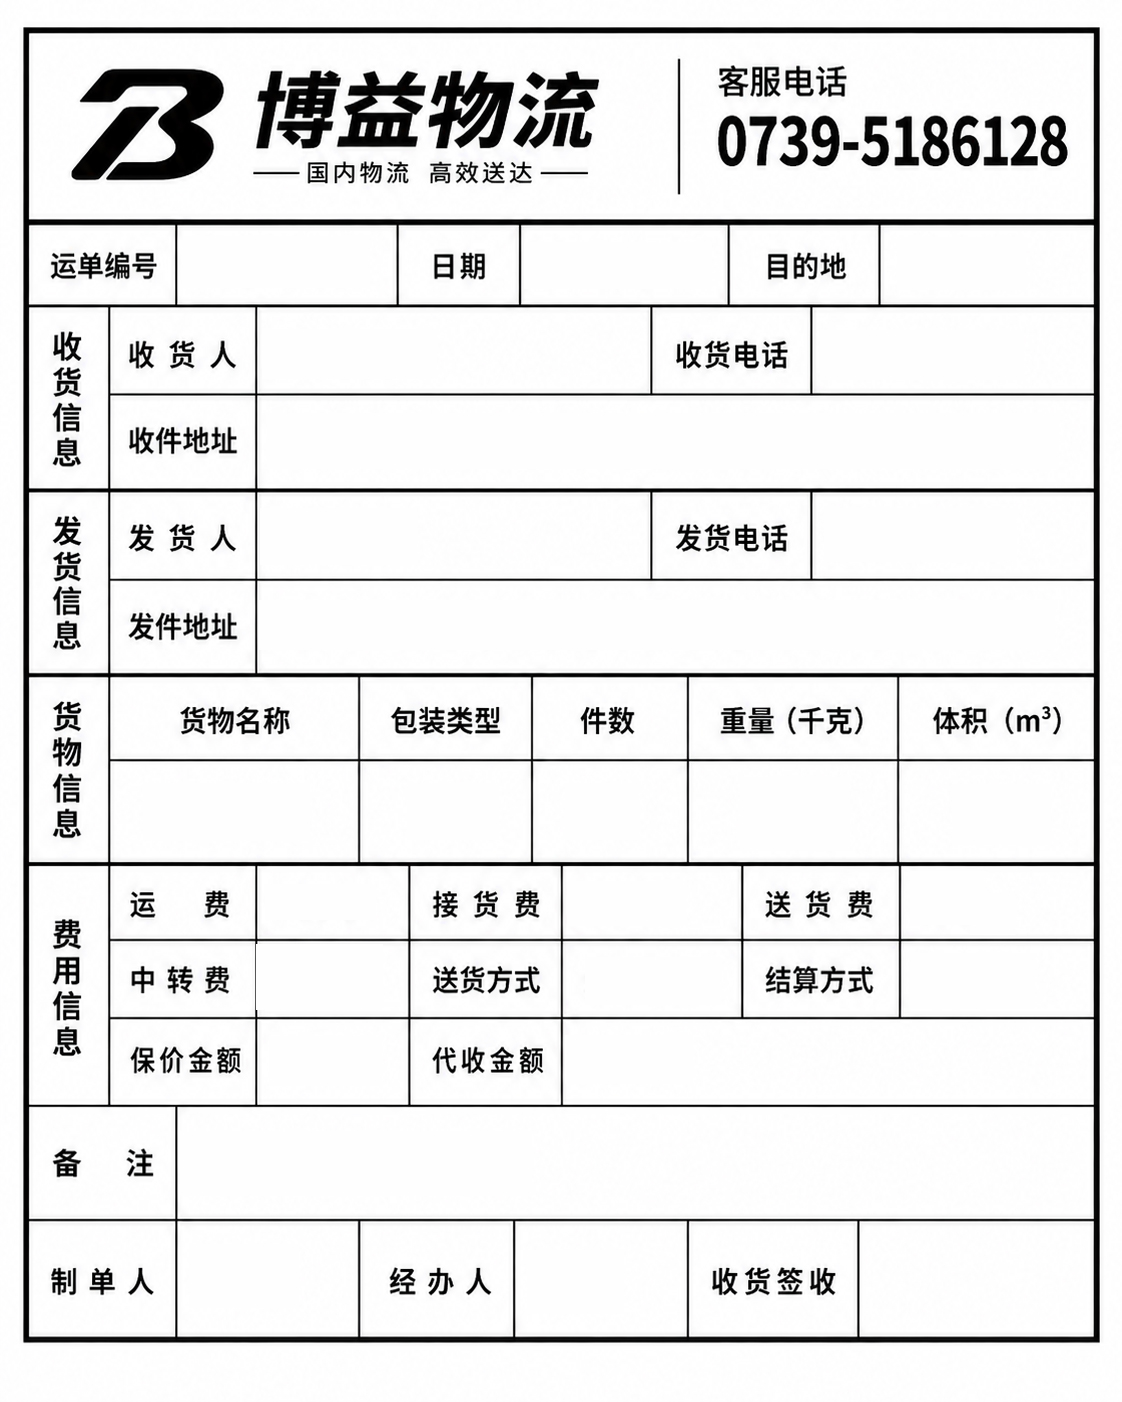
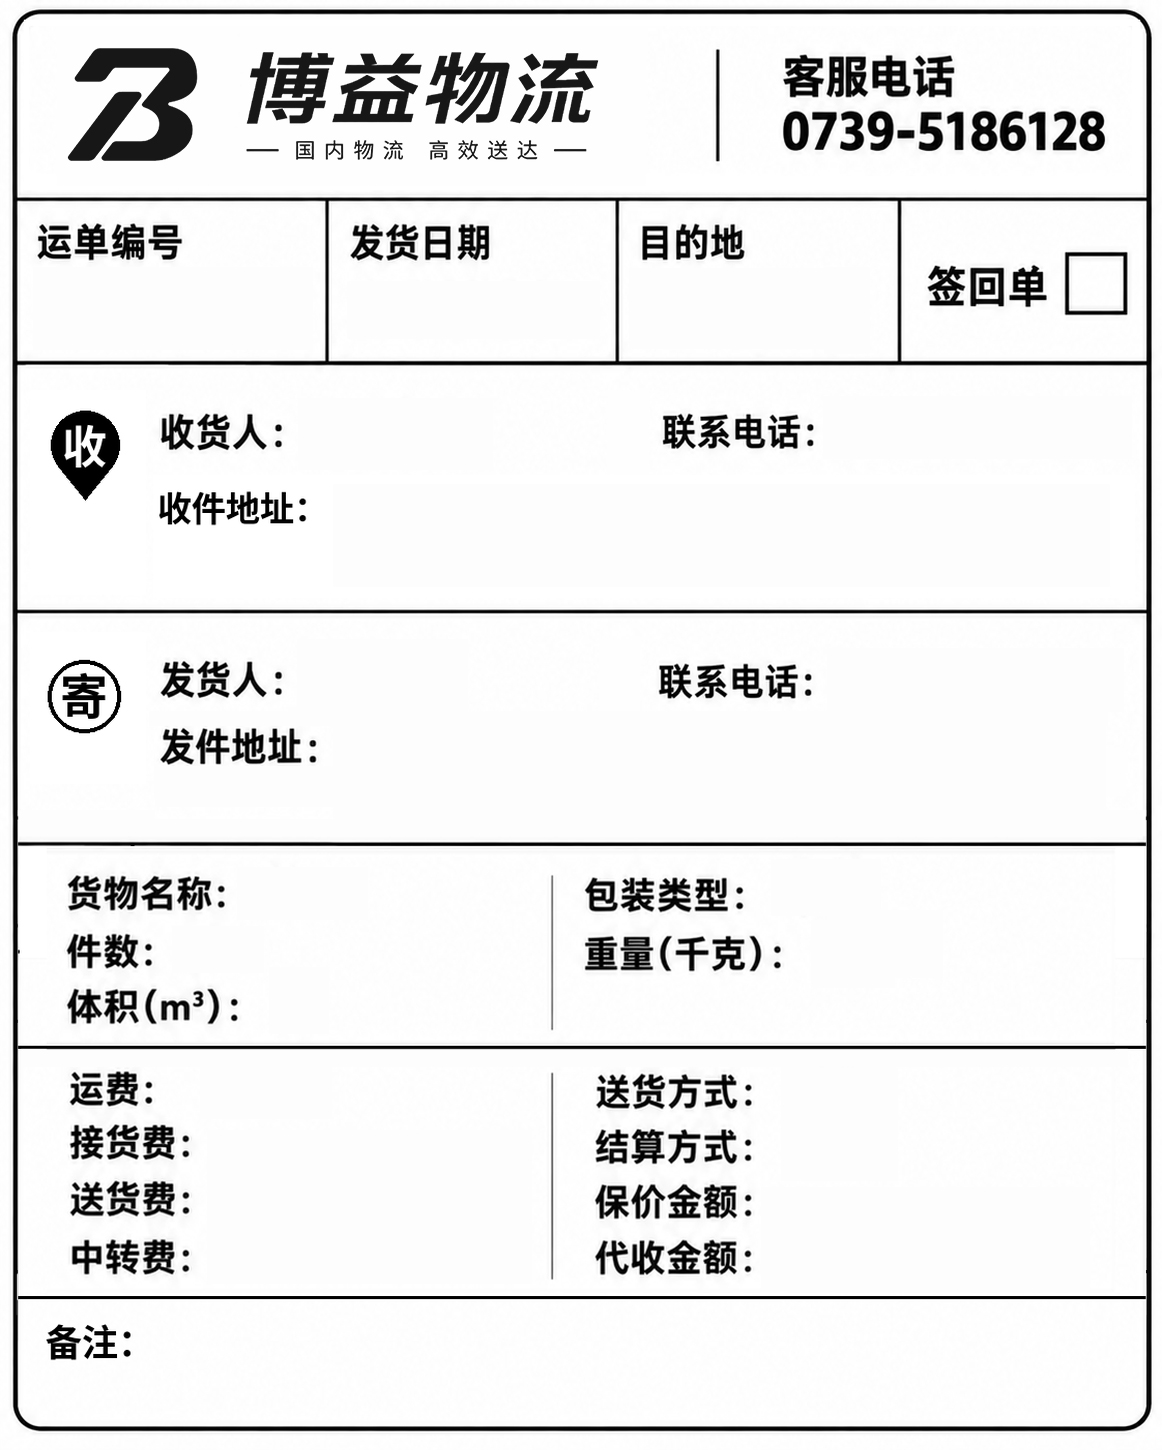
feat(console): replace waybill master and match sample typography

Changed region(s): [[0.0, 0.0, 0.9982, 1.0], [0.3431, 0.7668, 0.3743, 0.7974], [0.2184, 0.7668, 0.2496, 0.7974]]

diff --git a/console/static/js/waybill_label_html.js b/console/static/js/waybill_label_html.js
@@ -4,10 +4,10 @@
   const WIDTH_MM = "74mm";
   const HEIGHT_MM = "92mm";
   const PAGE_NAME = "74mm×92mm 博益物流主单";
-  const BACKGROUND_URL = "/static/assets/waybill_label_background.jpg";
-  // Coordinates refer to the supplied, unmodified 1122 × 1402 blank master.
-  const SOURCE_WIDTH = 1122;
-  const SOURCE_HEIGHT = 1402;
+  const BACKGROUND_URL = "/static/assets/waybill_label_background.jpg?v=20260916-master-v2";
+  // Coordinates and type sizes follow the supplied 1162 × 1450 master/sample.
+  const SOURCE_WIDTH = 1162;
+  const SOURCE_HEIGHT = 1450;
   const CONTENT_FONT = "黑体";
   const CONTENT_WEIGHT = 700;
   const CONTENT_SIZE_PX = 44;
@@ -79,8 +79,6 @@
       transportMethod: field("transportMethod", "delivery_method"),
       paymentMethod: field("paymentMethod", "payment_method"),
       remark: field("remark", "remark"),
-      makerName: field("makerName", "maker_name"),
-      handlerName: field("handlerName", "handler_name"),
     };
   };
 
@@ -99,33 +97,31 @@
   const placedMm = (value, offset, settings) => `${stripZeros(offset + value * settings.templateScale)}mm`;
   const sizedMm = (value, settings) => `${stripZeros(value * settings.templateScale)}mm`;
 
-  // Padded cell rectangles in source pixels, shared by HTML and native printing.
+  // Padded content regions in source pixels, shared by HTML and native printing.
   const FIELD_LAYOUT = [
-    { field: "waybillNo", x: 190, y: 229, w: 194, h: 69 },
-    { field: "date", x: 531, y: 229, w: 187, h: 69 },
-    { field: "station", x: 891, y: 229, w: 191, h: 69 },
-    { field: "recipientName", x: 271, y: 314, w: 365, h: 73 },
-    { field: "recipientPhone", x: 825, y: 314, w: 257, h: 73 },
-    { field: "recipientAddress", align: "left", x: 271, y: 401, w: 810, h: 80, lines: 2 },
-    { field: "senderName", x: 271, y: 499, w: 365, h: 72 },
-    { field: "senderPhone", x: 825, y: 499, w: 257, h: 72 },
-    { field: "senderAddress", align: "left", x: 271, y: 588, w: 810, h: 78, lines: 2 },
-    { field: "cargoName", x: 122, y: 769, w: 224, h: 85, align: "center", lines: 2 },
-    { field: "packageType", x: 372, y: 769, w: 146, h: 85, align: "center" },
-    { field: "pieces", x: 544, y: 769, w: 131, h: 85, align: "center" },
-    { field: "weight", x: 700, y: 769, w: 186, h: 85, align: "center" },
-    { field: "volume", x: 911, y: 769, w: 170, h: 85, align: "center" },
-    { field: "freight", x: 270, y: 872, w: 126, h: 60 },
-    { field: "pickupFee", x: 575, y: 872, w: 154, h: 60 },
-    { field: "deliveryFee", x: 913, y: 872, w: 168, h: 60 },
-    { field: "transferFee", x: 270, y: 948, w: 126, h: 62 },
-    { field: "transportMethod", x: 575, y: 948, w: 154, h: 62 },
-    { field: "paymentMethod", x: 913, y: 948, w: 168, h: 62 },
-    { field: "insuranceAmount", x: 270, y: 1026, w: 126, h: 71 },
-    { field: "codAmount", x: 575, y: 1026, w: 506, h: 71 },
-    { field: "remark", align: "left", x: 191, y: 1116, w: 890, h: 94, lines: 2 },
-    { field: "makerName", x: 191, y: 1229, w: 154, h: 98 },
-    { field: "handlerName", x: 529, y: 1229, w: 144, h: 98 },
+    { field: "waybillNo", x: 33, y: 264, w: 280, h: 85, fontPx: 64 },
+    { field: "date", x: 348, y: 270, w: 255, h: 73, fontPx: 56 },
+    { field: "station", x: 640, y: 264, w: 242, h: 87, fontPx: 62 },
+    { field: "recipientName", x: 305, y: 396, w: 330, h: 72, fontPx: 54 },
+    { field: "recipientPhone", x: 834, y: 396, w: 303, h: 72, fontPx: 52 },
+    { field: "recipientAddress", x: 342, y: 482, w: 782, h: 110, fontPx: 36, lines: 2, leading: 1.38, valign: "top" },
+    { field: "senderName", x: 305, y: 644, w: 330, h: 72, fontPx: 54 },
+    { field: "senderPhone", x: 834, y: 644, w: 303, h: 72, fontPx: 52 },
+    { field: "senderAddress", x: 342, y: 724, w: 782, h: 102, fontPx: 36, lines: 2, leading: 1.38, valign: "top" },
+    { field: "cargoName", x: 260, y: 864, w: 277, h: 53 },
+    { field: "packageType", x: 782, y: 864, w: 343, h: 53 },
+    { field: "pieces", x: 188, y: 923, w: 349, h: 52, fontPx: 46 },
+    { field: "weight", x: 820, y: 923, w: 305, h: 52, fontPx: 46 },
+    { field: "volume", x: 271, y: 980, w: 266, h: 52, fontPx: 46 },
+    { field: "freight", x: 206, y: 1064, w: 331, h: 52, fontPx: 42 },
+    { field: "pickupFee", x: 206, y: 1119, w: 331, h: 52, fontPx: 42 },
+    { field: "deliveryFee", x: 206, y: 1175, w: 331, h: 52, fontPx: 42 },
+    { field: "transferFee", x: 206, y: 1230, w: 331, h: 52, fontPx: 42 },
+    { field: "transportMethod", x: 789, y: 1064, w: 336, h: 52 },
+    { field: "paymentMethod", x: 789, y: 1120, w: 336, h: 52 },
+    { field: "insuranceAmount", x: 789, y: 1175, w: 336, h: 52, fontPx: 42 },
+    { field: "codAmount", x: 789, y: 1230, w: 336, h: 52, fontPx: 42 },
+    { field: "remark", x: 158, y: 1320, w: 967, h: 96, fontPx: 36, lines: 2, valign: "top" },
   ];
 
   const FIELD_LABELS = {
@@ -135,7 +131,7 @@
     cargoName: "货物名称", packageType: "包装类型", pieces: "件数", weight: "重量", volume: "体积",
     freight: "运费", pickupFee: "接货费", deliveryFee: "送货费", transferFee: "中转费",
     transportMethod: "送货方式", paymentMethod: "结算方式", insuranceAmount: "保价金额", codAmount: "代收金额",
-    remark: "备注", makerName: "制单人", handlerName: "经办人",
+    remark: "备注",
   };
   const wrapText = (text, width, context) => {
     const lines = [];
@@ -160,15 +156,15 @@
       const value = cleanText(data[item.field]);
       if (!value) return [];
       const font = CONTENT_FONT;
-      for (let px = CONTENT_SIZE_PX * settings.fontScale; px >= 22; px -= 0.5) {
+      for (let px = (item.fontPx || CONTENT_SIZE_PX) * settings.fontScale; px >= 22; px -= 0.5) {
         context.font = `${CONTENT_WEIGHT} ${px}px "${font}"`;
         const lines = wrapText(value, item.w * 0.95, context);
-        const lineHeight = px * 1.18;
+        const lineHeight = px * (item.leading || 1.18);
         if (lines.length > (item.lines || 1) || lines.length * lineHeight > item.h) continue;
         return [{
-          field: item.field, content: lines.join("\n"), font, fontWeight: CONTENT_WEIGHT, align: item.align || "center",
+          field: item.field, content: lines.join("\n"), font, fontWeight: CONTENT_WEIGHT, align: "left",
           x: item.x * 74 / SOURCE_WIDTH,
-          y: (item.y + (item.h - lines.length * lineHeight) / 2) * 92 / SOURCE_HEIGHT,
+          y: (item.y + (item.valign === "top" ? 0 : (item.h - lines.length * lineHeight) / 2)) * 92 / SOURCE_HEIGHT,
           w: item.w * 74 / SOURCE_WIDTH,
           h: (lines.length * lineHeight + 4) * 92 / SOURCE_HEIGHT,
           fontPt: px * 92 / SOURCE_HEIGHT * 72 / 25.4,

diff --git a/console/templates/document.html b/console/templates/document.html
@@ -19,8 +19,8 @@
 {% if manual_amap_sdk_should_load | default(false) %}
 <script src="https://webapi.amap.com/loader.js"></script>
 {% endif %}
-<script src="/static/js/waybill_label_html.js?v=20260916-readable"></script>
-<script src="/static/js/waybill_label_lodop.js?v=20260916-readable"></script>
+<script src="/static/js/waybill_label_html.js?v=20260916-master-v2"></script>
+<script src="/static/js/waybill_label_lodop.js?v=20260916-master-v2"></script>
 <script src="/static/js/clodop_loader.js?v=20260812"></script>
 <script src="/static/js/yunda_entry_mode.js"></script>
 {% endif %}

diff --git a/console/templates/waybill_print.html b/console/templates/waybill_print.html
@@ -37,8 +37,8 @@
 
   <div class="print-frame" data-waybill-label-preview></div>
 
-  <script src="/static/js/waybill_label_html.js?v=20260916-readable"></script>
-  <script src="/static/js/waybill_label_lodop.js?v=20260916-readable"></script>
+  <script src="/static/js/waybill_label_html.js?v=20260916-master-v2"></script>
+  <script src="/static/js/waybill_label_lodop.js?v=20260916-master-v2"></script>
   <script src="/static/js/clodop_loader.js?v=20260812"></script>
   <script>
     const PRINT_SETTINGS_KEY = "shipnow.manual.printerSettings";

diff --git a/console/AGENTS.md b/console/AGENTS.md
@@ -217,7 +217,7 @@ Console 保留 `ThreadingHTTPServer`；`app.py` 只保留服务组合、HTTP 生
 - 统一回单管理页 `/receipts` 读取本地记录与附件；查询和审核在当前页面展示直接结果，失败/未知状态不能称作成功。活动原页 iframe 仍禁用，旧回单原页前缀统一 410；本地照片与证据展示保留。
 - 博益手工单号由 `waybill_sequences` 的独立 `boyi_manual_waybill` 序列从 `BY00001` 全局递增；保存与领号同事务，预览不占号，旧数字单号保留。结算方式只接受寄付、到付、月结，页面与服务端共用 `MANUAL_PAYMENT_METHODS`。博益开单、OCR 日期统一按 ISO 入库；迁移 `050_normalize_local_waybill_dates.sql` 修正历史手工/OCR 斜杠日期，确保寄件查询可按日期找到。
 - 手工工作台右侧为高德地图定位区，收件地址失焦或回车后自动搜索定位；地图卡片下方只保留一个起始地址搜索输入框，不显示定位状态、匹配地址或起始地基础行程预估；手工录单表单分开发货信息和收货信息，不再显示外层“客户信息”标题；顶部“地址解析”弹窗只在浏览器本地解析姓名/电话/地址并填入收货人、收货电话、收件地址，不调用外部接口、不自动保存；打印机设置收纳到顶部按钮弹层，本地打印机选项通过浏览器 `localStorage` 保存偏好，保存后的打印页直接调用本机 C-Lodop 服务，不做浏览器打印兜底。手工录单页和独立打印页统一使用 `static/js/clodop_loader.js`：优先按 C-Lodop 6.644 官方方案从本机 `8000/18000` 端口通过 WebSocket 加载主脚本，仅在 WebSocket 不可用时按页面协议尝试 HTTP/HTTPS 脚本地址；禁止在两个模板中复制加载器或恢复为只依赖 `8443` SSL 证书的旧实现。
-- 热敏主单使用用户桌面“主单模板/主单-空白信息版.jpg”的原始空白底版，保存为 `static/assets/waybill_label_background.jpg`，原图 1122 × 1402 px，打印纸张仍为 74mm × 92mm。`static/js/waybill_label_html.js` 单点维护源图坐标、数据归一化和文字排版，`static/js/waybill_label_lodop.js` 必须复用，先 `ADD_PRINT_IMAGE` 再 `ADD_PRINT_TEXT`，不回退旧模板。所有动态内容（含中文、数字、日期、电话和金额）统一使用本机黑体并加粗，默认从源图 44px 字号开始排版；长内容按实际单元格宽高缩小或换行，完整保留日期、电话和金额，浏览器加载本机黑体（SimHei）后按 700 字重测量，C-Lodop 使用已安装的“黑体”并启用加粗；本机缺少黑体时明确提示安装，不回退思源黑体；短内容在单元格内水平、垂直居中，地址和备注左对齐、垂直居中，同一行按共同中线定位。固定底图文字不变。重量/体积按手工录单已保存的 kg / m³ 格式分栏；接货费、中转费和备注传入实际值，空值不补零，无法解析或文字超出可打印区域时显式报错。发件地址、制单人、经办人无来源时留空，收货签收栏保留手写；不把样张人物或金额写入模板。旧 PNG、SVG 模板及兜底实现已移除；禁止重绘底图、拆 SVG 切片、`ADD_PRINT_HTM` 或浏览器打印兜底。
+- 热敏主单使用用户桌面“主单模板/主单-空白信息版.jpg”的新版原始底图，保存为 `static/assets/waybill_label_background.jpg`，原图 1162 × 1450 px，纸张仍为 74mm × 92mm；以同目录“主单.jpg”为字号、粗细和位置参考。`static/js/waybill_label_html.js` 单点维护分区坐标、各字段字号、数据归一化和排版，`static/js/waybill_label_lodop.js` 复用后先 `ADD_PRINT_IMAGE` 再 `ADD_PRINT_TEXT`。动态内容使用本机黑体并加粗：单号、目的地和姓名突出，电话、地址、货物和费用分别按样张大小排版；各字段接在固定标签后左对齐，同排文字保持对齐，地址和备注从顶部换行。浏览器加载本机黑体（SimHei）后按 700 字重测量，C-Lodop 使用“黑体”并启用加粗；缺字体明确报错，长内容按区域缩小或换行，超出区域明确报错，不截断。底图的签回单框保留空白，当前无对应数据源；新版不再包含制单人、经办人或签收栏，旧坐标和字段已移除。重量/体积按保存的 kg / m³ 分栏；费用和备注使用实际值，空值不补零，发件地址无来源时留空，不使用样张人物或金额。图片与脚本版本参数同步更新；禁止重绘底图、旧模板兜底、`ADD_PRINT_HTM` 或浏览器打印兜底。
 
 ## 后台账号与域名登录
 

diff --git a/console/CLAUDE.md b/console/CLAUDE.md
@@ -217,7 +217,7 @@ Console 保留 `ThreadingHTTPServer`；`app.py` 只保留服务组合、HTTP 生
 - 统一回单管理页 `/receipts` 读取本地记录与附件；查询和审核在当前页面展示直接结果，失败/未知状态不能称作成功。活动原页 iframe 仍禁用，旧回单原页前缀统一 410；本地照片与证据展示保留。
 - 博益手工单号由 `waybill_sequences` 的独立 `boyi_manual_waybill` 序列从 `BY00001` 全局递增；保存与领号同事务，预览不占号，旧数字单号保留。结算方式只接受寄付、到付、月结，页面与服务端共用 `MANUAL_PAYMENT_METHODS`。博益开单、OCR 日期统一按 ISO 入库；迁移 `050_normalize_local_waybill_dates.sql` 修正历史手工/OCR 斜杠日期，确保寄件查询可按日期找到。
 - 手工工作台右侧为高德地图定位区，收件地址失焦或回车后自动搜索定位；地图卡片下方只保留一个起始地址搜索输入框，不显示定位状态、匹配地址或起始地基础行程预估；手工录单表单分开发货信息和收货信息，不再显示外层“客户信息”标题；顶部“地址解析”弹窗只在浏览器本地解析姓名/电话/地址并填入收货人、收货电话、收件地址，不调用外部接口、不自动保存；打印机设置收纳到顶部按钮弹层，本地打印机选项通过浏览器 `localStorage` 保存偏好，保存后的打印页直接调用本机 C-Lodop 服务，不做浏览器打印兜底。手工录单页和独立打印页统一使用 `static/js/clodop_loader.js`：优先按 C-Lodop 6.644 官方方案从本机 `8000/18000` 端口通过 WebSocket 加载主脚本，仅在 WebSocket 不可用时按页面协议尝试 HTTP/HTTPS 脚本地址；禁止在两个模板中复制加载器或恢复为只依赖 `8443` SSL 证书的旧实现。
-- 热敏主单使用用户桌面“主单模板/主单-空白信息版.jpg”的原始空白底版，保存为 `static/assets/waybill_label_background.jpg`，原图 1122 × 1402 px，打印纸张仍为 74mm × 92mm。`static/js/waybill_label_html.js` 单点维护源图坐标、数据归一化和文字排版，`static/js/waybill_label_lodop.js` 必须复用，先 `ADD_PRINT_IMAGE` 再 `ADD_PRINT_TEXT`，不回退旧模板。所有动态内容（含中文、数字、日期、电话和金额）统一使用本机黑体并加粗，默认从源图 44px 字号开始排版；长内容按实际单元格宽高缩小或换行，完整保留日期、电话和金额，浏览器加载本机黑体（SimHei）后按 700 字重测量，C-Lodop 使用已安装的“黑体”并启用加粗；本机缺少黑体时明确提示安装，不回退思源黑体；短内容在单元格内水平、垂直居中，地址和备注左对齐、垂直居中，同一行按共同中线定位。固定底图文字不变。重量/体积按手工录单已保存的 kg / m³ 格式分栏；接货费、中转费和备注传入实际值，空值不补零，无法解析或文字超出可打印区域时显式报错。发件地址、制单人、经办人无来源时留空，收货签收栏保留手写；不把样张人物或金额写入模板。旧 PNG、SVG 模板及兜底实现已移除；禁止重绘底图、拆 SVG 切片、`ADD_PRINT_HTM` 或浏览器打印兜底。
+- 热敏主单使用用户桌面“主单模板/主单-空白信息版.jpg”的新版原始底图，保存为 `static/assets/waybill_label_background.jpg`，原图 1162 × 1450 px，纸张仍为 74mm × 92mm；以同目录“主单.jpg”为字号、粗细和位置参考。`static/js/waybill_label_html.js` 单点维护分区坐标、各字段字号、数据归一化和排版，`static/js/waybill_label_lodop.js` 复用后先 `ADD_PRINT_IMAGE` 再 `ADD_PRINT_TEXT`。动态内容使用本机黑体并加粗：单号、目的地和姓名突出，电话、地址、货物和费用分别按样张大小排版；各字段接在固定标签后左对齐，同排文字保持对齐，地址和备注从顶部换行。浏览器加载本机黑体（SimHei）后按 700 字重测量，C-Lodop 使用“黑体”并启用加粗；缺字体明确报错，长内容按区域缩小或换行，超出区域明确报错，不截断。底图的签回单框保留空白，当前无对应数据源；新版不再包含制单人、经办人或签收栏，旧坐标和字段已移除。重量/体积按保存的 kg / m³ 分栏；费用和备注使用实际值，空值不补零，发件地址无来源时留空，不使用样张人物或金额。图片与脚本版本参数同步更新；禁止重绘底图、旧模板兜底、`ADD_PRINT_HTM` 或浏览器打印兜底。
 
 ## 后台账号与域名登录
 
